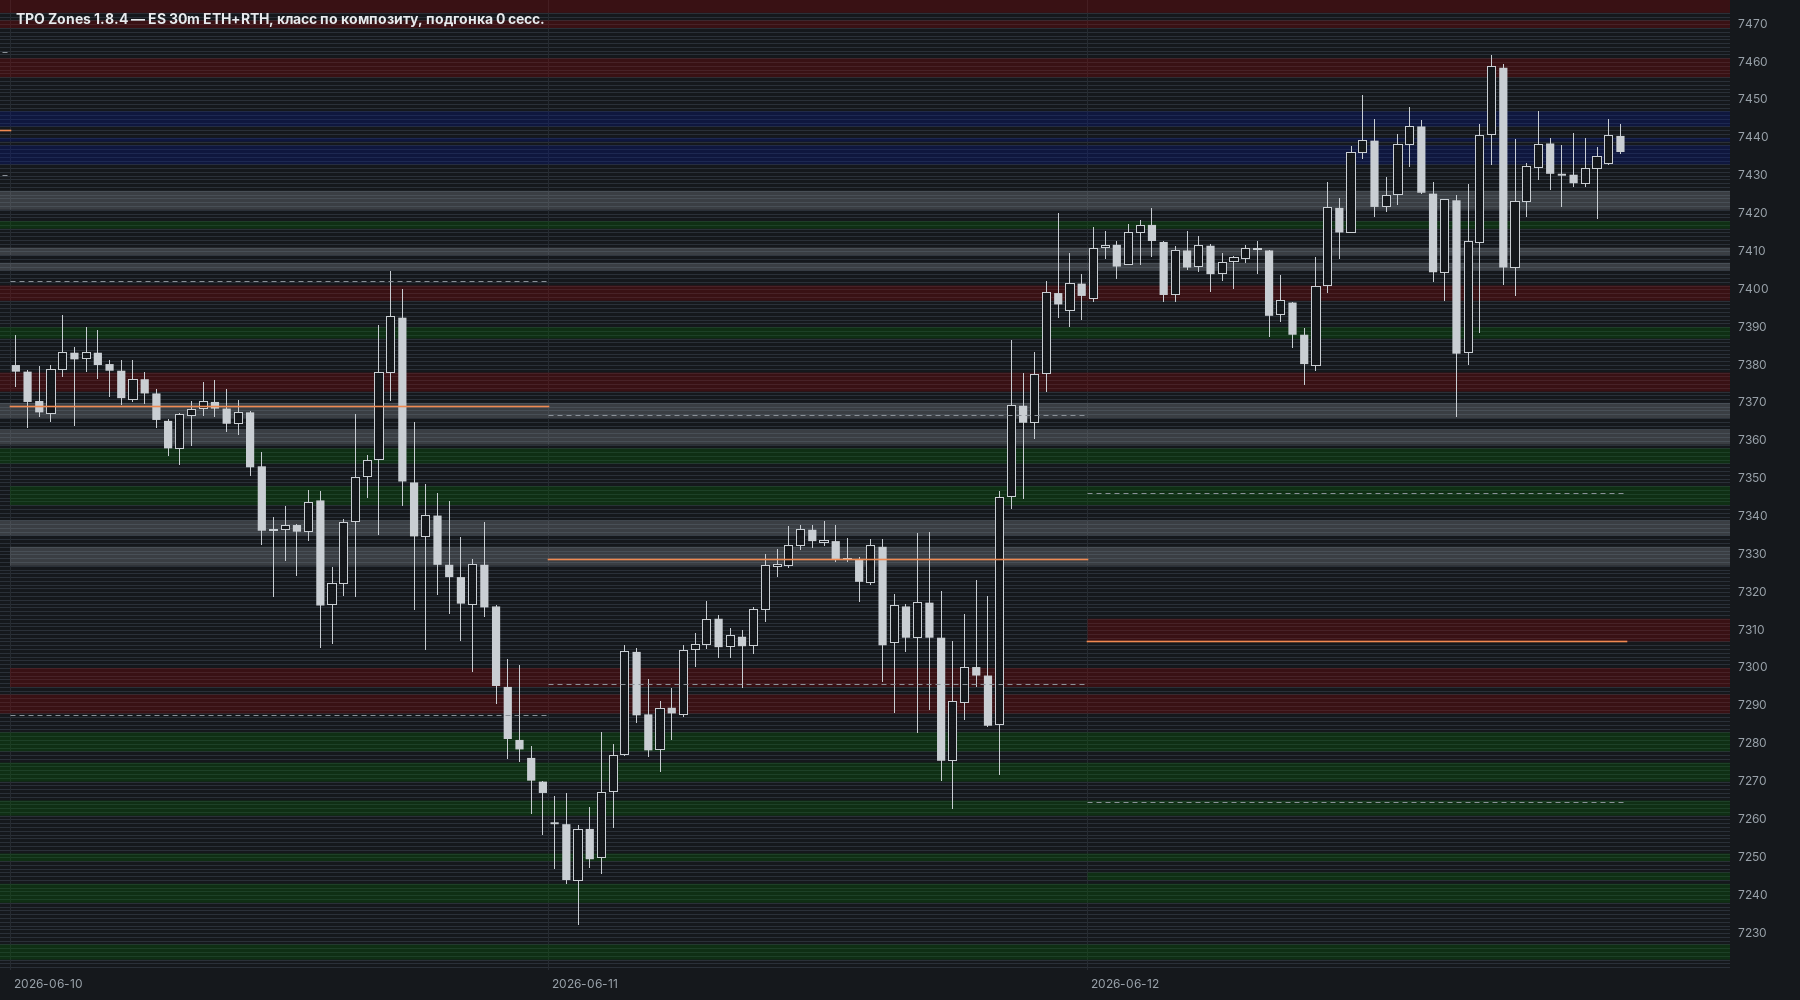
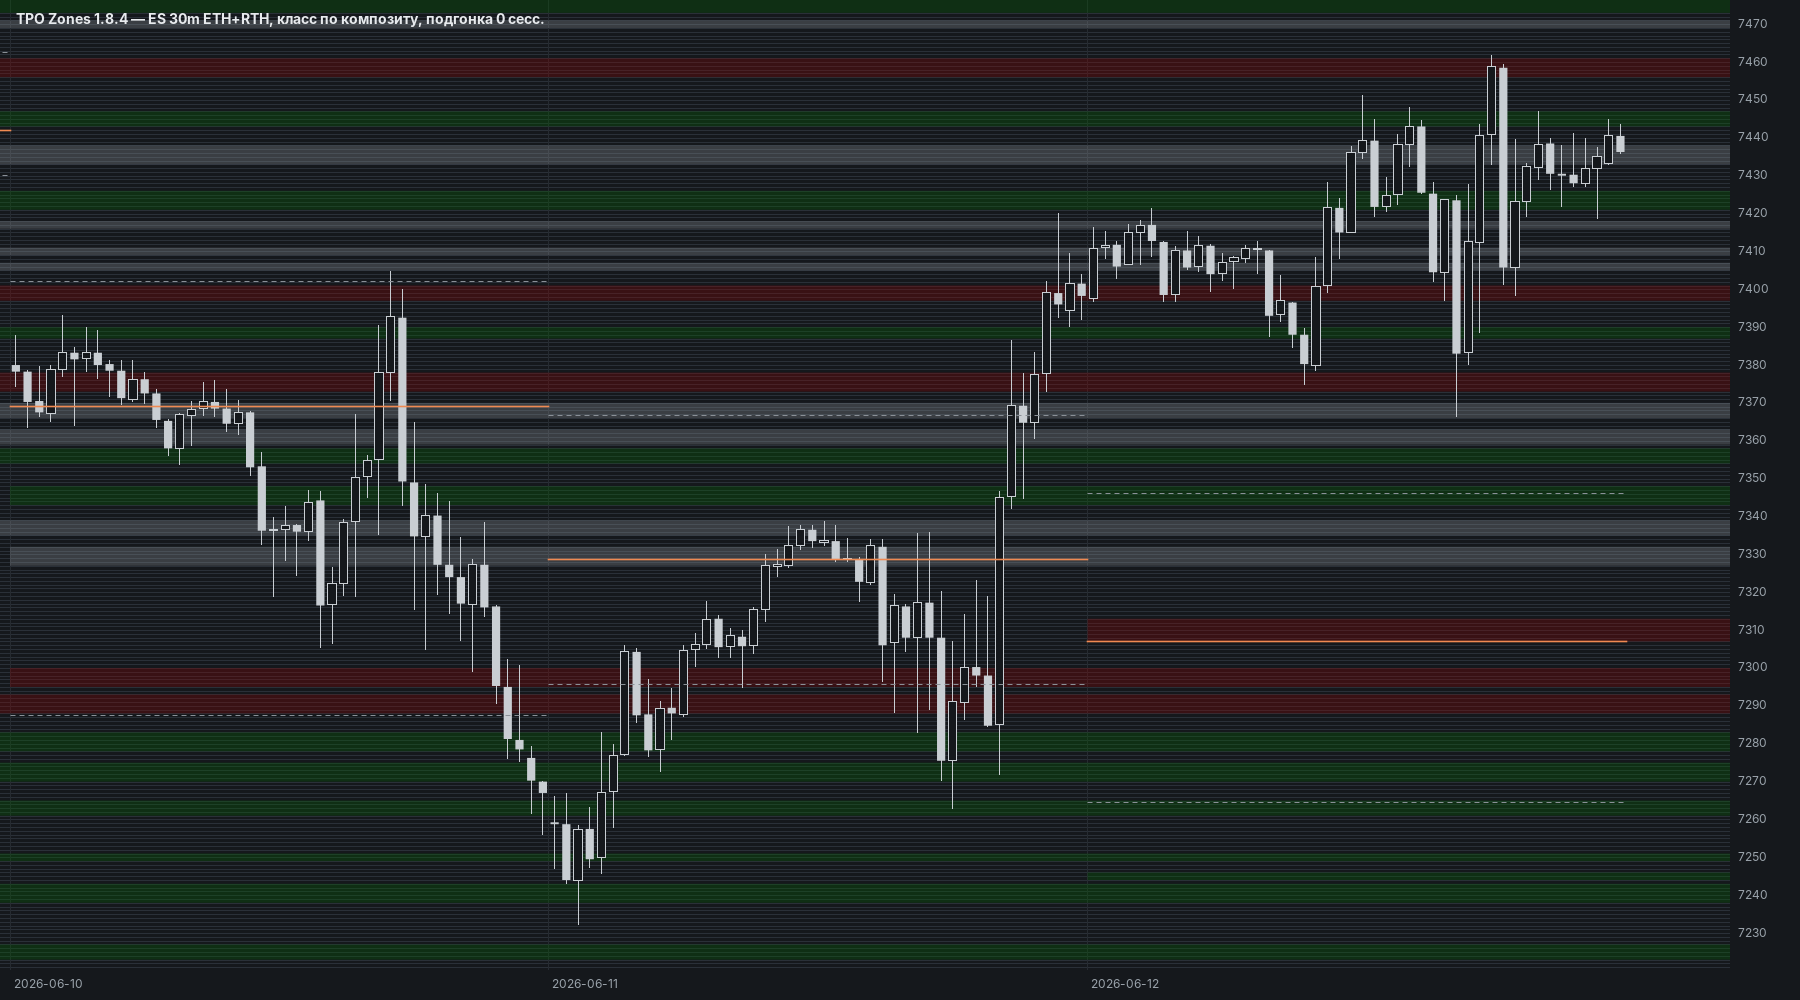
1.8.4 trial: composites as POC clusters
The value-VA rule lost the user's own composites (29.05-03.06,
23-26.06, 23-31.07 2026): the candidate held on to the old level while
price built a new one, and adjacent VAs overlapped just under half.

pocClusters (compPocBandAdr = 0.5, default): every day opens its own
cluster and joins every open cluster where all POCs stay within half an
average daily range; smeared days and days wider than 2 average ranges
join none. A cluster closes after more than 2 days in a row without a
member (or on a roll); one with 4+ days becomes a composite from the day
after its last day, unless its days are already taken or a still-open
cluster holds all of them and more. The profile is the member days only.

On 7248-7884: 8 composites, all inside the user's 5 clusters of blue
zones, none extra; each of the user's screenshots is found. Balances 56
in the history (16 in the last year). Against the 111 manual zones:
found 32%, IoU>=0.5 17%, edge 1.25 pts, colour 31%.

Claude-Session: https://claude.ai/code/session_01PTkojyiGzDNp63zhXM5QMh

Changed region(s): [[0.0, 0.093, 0.9644, 0.248], [0.0, 0.0, 0.9644, 0.031]]

diff --git a/motivewave/src/patterns/zones/ZoneEngine.java b/motivewave/src/patterns/zones/ZoneEngine.java
@@ -82,8 +82,12 @@ public final class ZoneEngine {
         //      диапазонов и «размазня» не входят; композит не шире compMaxAdr средних диапазонов; до compExcursion дней мимо
         //      подряд (вылеты) пропускаются и в профиль не входят, композит идёт дальше, если цена вернулась; больше — закрыт
         //      (с первого вылета). Прежнее склеивание (close в диапазоне, внешний день, VA вчерашнего дня) — compValue = false.
-        //      Настроено по ручной разметке 7248–7884 (5 скоплений синих: все 5 находятся, лишний композит 1).
+        //      По умолчанию — скопления POC (compPocBandAdr, pocClusters): настроено по ручной разметке 7248–7884 и скринам
+        //      композитов пользователя (29.05–03.06, 23–26.06, 10–16.07, 23–31.07, 20–26.08): 8 композитов, все в 5 скоплениях
+        //      ручных синих, лишних нет.
         public boolean compValue = true;
+        public double compPocBandAdr = 0.5;       // > 0: день входит, если POC всех дней композита с ним укладываются в полосу не шире
+                                                  // стольких средних диапазонов (вместо проверки по VA); 0 — по VA (compValueShare)
         public double compValueShare = 0.5;
         public double compDayMaxAdr = 2;
         public int compExcursion = 2;
@@ -1638,6 +1642,7 @@ public final class ZoneEngine {
     /** Композиты по стоимости (compValue): см. Params. */
     static void valueComposites(List<Day> days, Result res, Params p, List<Zone> ob, List<Zone> greyComp,
                                 Map<LocalDate, LocalDate> nextTradeDay) {
+        if (p.compPocBandAdr > 0) { pocClusters(days, res, p, ob, greyComp, nextTradeDay); return; }
         List<Day> cand = new ArrayList<>(); Profile cp = null; List<Day> miss = new ArrayList<>();
         for (Day d : days) {
             if (!cand.isEmpty() && p.compRollBreak && rollBetween(res, p, cand.get(cand.size() - 1).date, d.date)) {
@@ -1649,7 +1654,7 @@ public final class ZoneEngine {
             if (smear || wide) res.smearDays++;
             boolean eligible = !smear && !wide;
             if (cand.isEmpty()) { if (eligible) { cand.add(d); cp = d.profile; } continue; }
-            if (eligible && valueIn(d, cp, p) && !tooWide(cp, d, p)) {
+            if (eligible && joins(d, cand, cp, p) && !tooWide(cp, d, p)) {
                 miss.clear(); cand.add(d); cp = merge(cp, d.profile);
                 live(cand, cp, nextTradeDay.get(d.date), p, res.liveComps);
                 continue;
@@ -1663,11 +1668,76 @@ public final class ZoneEngine {
                 boolean ok = !(p.smearMaxTpo > 0 && !x.shortDay && x.maxSq <= p.smearMaxTpo)
                         && !(p.compDayMaxAdr > 0 && !Double.isNaN(x.adr) && x.high - x.low > p.compDayMaxAdr * x.adr + 1e-9);
                 if (!ok) { cand = new ArrayList<>(); cp = null; continue; }
-                if (cand.isEmpty() || !(valueIn(x, cp, p) && !tooWide(cp, x, p))) { cand = new ArrayList<>(); cand.add(x); cp = x.profile; }
+                if (cand.isEmpty() || !(joins(x, cand, cp, p) && !tooWide(cp, x, p))) { cand = new ArrayList<>(); cand.add(x); cp = x.profile; }
                 else { cand.add(x); cp = merge(cp, x.profile); }
             }
             miss.clear();
         }
+    }
+
+    /** Скопления POC (compPocBandAdr > 0): каждый день открывает своё скопление и входит во все открытые, где POC всех
+     *  дней остаются в полосе ≤ compPocBandAdr × средний диапазон; «размазня» и дни шире compDayMaxAdr не входят никуда.
+     *  Скопление закрывается, когда больше compExcursion дней подряд в него не вошли (или ролл); закрытое из
+     *  ≥ compositeMinDays дней — композит, если в другом открытом скоплении нет всех его дней и больше, и его дни не заняты
+     *  уже выданным композитом. Профиль — только дни скопления (вылеты не входят). Композит — со следующего дня после
+     *  последнего дня скопления. */
+    static void pocClusters(List<Day> days, Result res, Params p, List<Zone> ob, List<Zone> greyComp,
+                            Map<LocalDate, LocalDate> nextTradeDay) {
+        final class Cl { final List<Day> m = new ArrayList<>(); int lo, hi, last; Profile cp; }
+        List<Cl> open = new ArrayList<>();
+        Set<LocalDate> used = new HashSet<>();
+        List<Cl> closing = new ArrayList<>();
+        for (int i = 0; i <= days.size(); i++) {
+            Day d = i < days.size() ? days.get(i) : null;
+            boolean roll = d != null && !open.isEmpty() && p.compRollBreak
+                    && rollBetween(res, p, days.get(i - 1).date, d.date);
+            closing.clear();
+            for (Cl c : open) if (d == null || roll || i - c.last > p.compExcursion) closing.add(c);
+            open.removeAll(closing);
+            closing.sort((x, y) -> y.m.size() - x.m.size());
+            for (Cl c : closing) {
+                if (c.m.size() < p.compositeMinDays) continue;
+                boolean sub = false;
+                for (Cl o : open) if (o.m.size() > c.m.size() && o.m.containsAll(c.m)) sub = true;
+                boolean taken = false;
+                for (Day x : c.m) if (used.contains(x.date)) taken = true;
+                if (sub || taken) continue;
+                LocalDate av = nextTradeDay.get(c.m.get(c.m.size() - 1).date);
+                if (av == null) continue;
+                for (Day x : c.m) used.add(x.date);
+                closeComposite(c.m, c.cp, av, p, ob, greyComp, res.comps, res.notBalance);
+            }
+            if (d == null) break;
+            boolean smear = p.smearMaxTpo > 0 && !d.shortDay && d.maxSq <= p.smearMaxTpo;
+            boolean wide = p.compDayMaxAdr > 0 && !Double.isNaN(d.adr) && d.high - d.low > p.compDayMaxAdr * d.adr + 1e-9;
+            if (smear || wide) { res.smearDays++; continue; }
+            if (Double.isNaN(d.adr)) continue;
+            double lim = p.compPocBandAdr * d.adr;
+            Cl best = null;
+            for (Cl c : open) {
+                int lo = Math.min(c.lo, d.poc), hi = Math.max(c.hi, d.poc);
+                if ((hi - lo) * p.tick > lim + 1e-9 || tooWide(c.cp, d, p)) continue;
+                c.m.add(d); c.lo = lo; c.hi = hi; c.last = i; c.cp = merge(c.cp, d.profile);
+                if (best == null || c.m.size() > best.m.size()) best = c;
+            }
+            Cl n = new Cl(); n.m.add(d); n.lo = n.hi = d.poc; n.last = i; n.cp = d.profile; open.add(n);
+            // одинаковые скопления (те же дни) — одно
+            for (int a = open.size() - 1; a >= 0; a--) for (int b = 0; b < a; b++)
+                if (open.get(a).m.equals(open.get(b).m)) { open.remove(a); break; }
+            if (best != null) {
+                boolean free = true; for (Day x : best.m) if (used.contains(x.date)) free = false;
+                if (free) live(best.m, best.cp, nextTradeDay.get(d.date), p, res.liveComps);
+            }
+        }
+    }
+
+    /** День входит в композит: полоса POC (compPocBandAdr) или стоимость по VA (valueIn). */
+    static boolean joins(Day d, List<Day> cand, Profile cp, Params p) {
+        if (p.compPocBandAdr <= 0) return valueIn(d, cp, p);
+        if (Double.isNaN(d.adr)) return false;
+        int lo = d.poc, hi = d.poc;
+        for (Day x : cand) { lo = Math.min(lo, x.poc); hi = Math.max(hi, x.poc); }
+        return (hi - lo) * p.tick <= p.compPocBandAdr * d.adr + 1e-9;
     }
 
     /** Стоимость дня в стоимости композита: POC дня внутри VA композита или VA дня на ≥ compValueShare внутри. */

diff --git a/motivewave/HANDOFF.md b/motivewave/HANDOFF.md
@@ -16,7 +16,10 @@
   композитом считается», «нормальный — 08.20–08.26: третий день отходит ниже, но визуально это боковик». О количестве:
   на 7248–7884 у пользователя 5 скоплений балансов (в каждом 1–3), «основные балансы — примерно по одному в каждом
   диапазоне, а часто это просто ретесты этих же балансов, и ничего не надо менять». Сделано: композит по стоимости
-  (`compValue`, по умолчанию), настроен по этим 5 скоплениям. Ждёт его взгляда на картинки.
+  (`compValue`), настроен по этим 5 скоплениям. Пользователь: «давай случайные уровни брать, из них композит делать» —
+  прислал свои композиты (скрины 29.05–05.06, 23.06–01.07, 10–17.07, 24.07–04.08, 21–28.08, 06–15.10 2026). У его
+  композитов POC дней держатся в узкой полосе (≈ 0.5 среднего диапазона), вылеты между ними — ретесты. Сделано:
+  скопления POC (`compPocBandAdr = 0.5`, по умолчанию). Урок: сверять по каждому его композиту, а не по скоплениям.
 - **Как понято:** «10 п.» — на сумму стопки (от низа до верха со щелями), а не на зону; синие ≤ 1 п. и синие / экстремумы
   ≤ 2 п. не трогаются (прежнее «синие не трогаем», «экстремумы вне серых правил»). Лимит ядра `zoneMaxWidthPts` оставлен.
 - **Открыто:** «найдено» упало 40 → 32% (−1 п. и обрезка по телам — ручные зоны часто 1–2 п. и по центру узла);

diff --git a/motivewave/HISTORY.md b/motivewave/HISTORY.md
@@ -18,7 +18,10 @@
   README раздел 9 п. 7): «сопли», лесенки и «размотало по обе стороны» больше не композиты; 1–2 дня вылета — ретест,
   композит не рвут. Настроено по 5 ручным скоплениям синих на 7248–7884 (все 5, лишний 1). Балансов 29 (9 за год);
   найдено 34%, край 1.20 п., цвет 21%. Пробовали: строже (1 вылет, день ≤ 1.5 диапазона) — 3 скопления из 5;
-  от 3 дней — 5 из 5, но композиты по 3 дня пользователь отключил. Пробовали: синие вне лимита стопки — оставались стопки синих по 15 п. (7745–7760 в
+  от 3 дней — 5 из 5, но композиты по 3 дня пользователь отключил. Пользователь по своим скринам: пропали его
+  композиты 29.05–03.06, 23–26.06, 23–31.07 → **скопления POC** (`compPocBandAdr = 0.5`): POC дней композита в полосе
+  ≤ 0.5 среднего диапазона, до 2 дней вылета; на 7248–7884 — 8 композитов, все в его 5 скоплениях, лишних 0, все 5 его
+  скринов находятся. Балансов 56 (16 за год); найдено 32%, край 1.25 п., цвет 31%. Пробовали: синие вне лимита стопки — оставались стопки синих по 15 п. (7745–7760 в
   октябре 2026); лимит по сумме ширин без щелей — 3 зоны по 3 п. через квадрат проходили.
 - **1.8.3** (19.11.2026, ветка `zones-1.8.3`) — 1.8.2, где зоны экстремумов стали обычными зонами, плюс хвост баланса и
   без широких серых (README, разделы 4, 5, 8):
